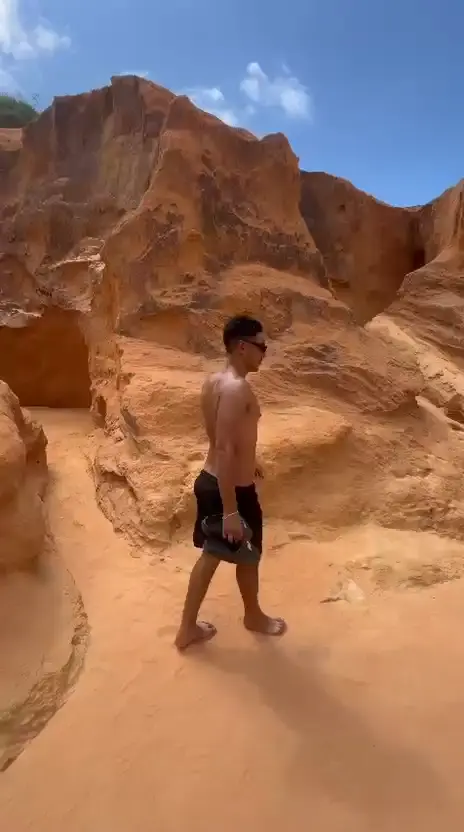
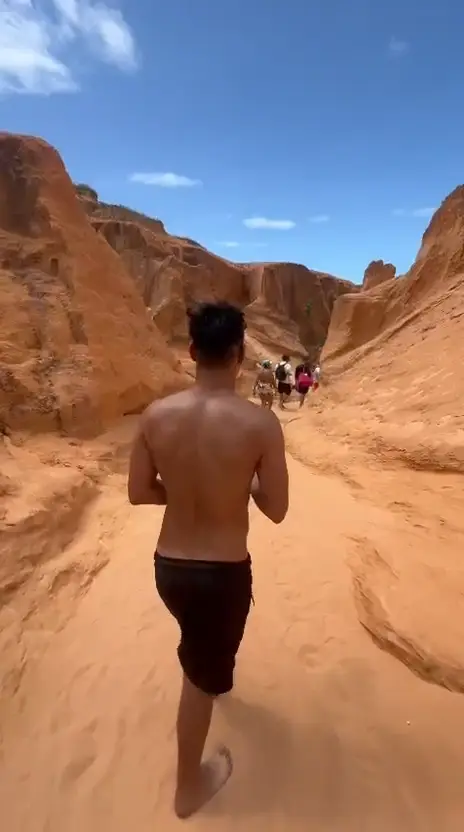
Tira o começo do vídeo das falésias da página do Bruno
Os quatro primeiros segundos, em que ele entrega a sacola para a câmera, não
aparecem mais: a cena abre no segundo 4 e volta para lá a cada repetição
(data-inicio no <video>). A capa foi refeita a partir de um quadro depois
desse ponto, e o hash do CSP foi recalculado.

diff --git a/bruno-zampieri/index.html b/bruno-zampieri/index.html
@@ -7,7 +7,7 @@
 <meta name="description" content="Bruno Zampieri: modelagem, filmagens de drone, massoterapia e lifestyle. Serviços, conteúdo, parcerias e contato em um só lugar.">
 <meta name="theme-color" content="#0d0a09">
 <meta name="robots" content="noindex">
-<meta http-equiv="Content-Security-Policy" content="default-src 'self'; script-src 'sha256-U6f/4DUI7cR2idFhEqOCf2IV9iEGE9ZrQf2EBCeQQbw='; style-src 'self' 'unsafe-inline'; img-src 'self' data:; media-src 'self'; font-src 'self'; connect-src 'self'; object-src 'none'; base-uri 'none'; form-action 'none'; upgrade-insecure-requests">
+<meta http-equiv="Content-Security-Policy" content="default-src 'self'; script-src 'sha256-O1KXdeSBV3xSxWJ4E3t/pzIAhHHBptXvu0kNEPBTCro='; style-src 'self' 'unsafe-inline'; img-src 'self' data:; media-src 'self'; font-src 'self'; connect-src 'self'; object-src 'none'; base-uri 'none'; form-action 'none'; upgrade-insecure-requests">
 <meta name="referrer" content="strict-origin-when-cross-origin">
 <link rel="preload" href="fonts/LeMurmure-Regular.woff2" as="font" type="font/woff2" crossorigin>
 <style>
@@ -743,7 +743,7 @@ a.rede:hover{border-color:var(--sol)}
     <div class="seq" id="seq-lifestyle" data-seq role="region" aria-label="Dia a dia do Bruno, role para passar fotos e vídeos" style="--n:8">
       <div class="seq__palco">
         <div class="cena"><div class="cena__amb" data-fundo="img/balanco-capa.webp"></div><video class="cena__m" muted loop playsinline preload="none" poster="img/balanco-capa.webp" data-src="video/balanco.mp4" width="464" height="832" style="aspect-ratio:464/832" aria-label="Vídeo: Bruno num balanço na beira da serra, com o sol se pondo"></video></div>
-        <div class="cena"><div class="cena__amb" data-fundo="img/falesias-capa.webp"></div><video class="cena__m" muted loop playsinline preload="none" poster="img/falesias-capa.webp" data-src="video/falesias.mp4" width="464" height="832" style="aspect-ratio:464/832" aria-label="Vídeo: Bruno caminhando entre falésias de areia alaranjada"></video></div>
+        <div class="cena"><div class="cena__amb" data-fundo="img/falesias-capa.webp"></div><video class="cena__m" muted loop playsinline preload="none" poster="img/falesias-capa.webp" data-src="video/falesias.mp4" data-inicio="4" width="464" height="832" style="aspect-ratio:464/832" aria-label="Vídeo: Bruno caminhando entre falésias de areia alaranjada"></video></div>
         <div class="cena"><div class="cena__amb" data-fundo="img/duna-capa.webp"></div><video class="cena__m" muted loop playsinline preload="none" poster="img/duna-capa.webp" data-src="video/duna.mp4" width="464" height="832" style="aspect-ratio:464/832" aria-label="Vídeo: Bruno pilotando um quadriciclo vermelho nas dunas"></video></div>
         <div class="cena"><div class="cena__amb" data-fundo="img/piscina-capa.webp"></div><video class="cena__m" muted loop playsinline preload="none" poster="img/piscina-capa.webp" data-src="video/piscina.mp4" width="576" height="1024" style="aspect-ratio:576/1024" aria-label="Vídeo: Bruno na piscina, embaixo de uma cascata"></video></div>
         <div class="cena"><div class="cena__amb" data-fundo="img/chapeu-sorriso.webp"></div><img class="cena__m" src="img/chapeu-sorriso.webp" width="960" height="1280" style="aspect-ratio:960/1280" alt="Bruno sorrindo de chapéu de couro, sentado num quadriciclo" loading="lazy" decoding="async"></div>
@@ -953,7 +953,17 @@ const CONTATO = { whatsapp: "5511977074881", email: "zampiericontato87@gmail.com
     const cenas = [...seq.querySelectorAll('.cena')], n = cenas.length;
     const midias = cenas.map(c => c.querySelector('.cena__m'));
     const ticks = [...seq.querySelectorAll('.seq__ritmo i')];
-    const carregar = v => { if (v && v.tagName === 'VIDEO' && !v.src) v.src = v.dataset.src; };
+    // data-inicio corta o começo do arquivo: o vídeo abre nesse segundo e volta para ele ao repetir.
+    const carregar = v => {
+      if (!v || v.tagName !== 'VIDEO' || v.src) return;
+      const ini = parseFloat(v.dataset.inicio) || 0;
+      v.src = v.dataset.src + (ini ? '#t=' + ini : '');
+      if (!ini) return;
+      v.loop = false;
+      const voltar = () => { if (v.currentTime < ini) v.currentTime = ini; };
+      v.addEventListener('loadedmetadata', voltar);
+      v.addEventListener('ended', () => { v.currentTime = ini; const p = v.play(); if (p) p.catch(() => {}); });
+    };
     if (semMov) { midias.forEach(m => { if (m.tagName === 'VIDEO') { m.controls = true; m.preload = 'metadata'; carregar(m); } }); return; }
     let atual = -1, visivel = false, pedido = false;
     const tocar = () => midias.forEach((m, i) => {

diff --git a/CLAUDE.md b/CLAUDE.md
@@ -75,6 +75,10 @@ atualizado quando algo importante mudar (preço, endereço, estrutura, decisão)
     hora no total) e nunca guarda o código, só compara com o hash.
   - `bruno-zampieri/`: página do criador Bruno Zampieri (@obrunozampieri). Contatos no
     objeto `CONTATO` do script.
+    Um vídeo da sequência de vivências pode começar depois do início do arquivo:
+    `data-inicio="4"` no `<video>` faz a cena abrir no segundo 4 e voltar para lá ao
+    repetir. É assim que o começo do vídeo das falésias fica de fora. A capa
+    (`poster`) precisa sair de um quadro depois desse ponto.
   - `bruxo/`: página do DJ Bruxo (@bruxoemsp) — Progressive, Hard e Hi-Tech. Fotos em
     `bruxo/img/` e fontes em `bruxo/fonts/` (Pirata One, Barlow, Barlow Condensed e
     IBM Plex Mono, todas SIL OFL, licenças na mesma pasta). O campo de partículas do
